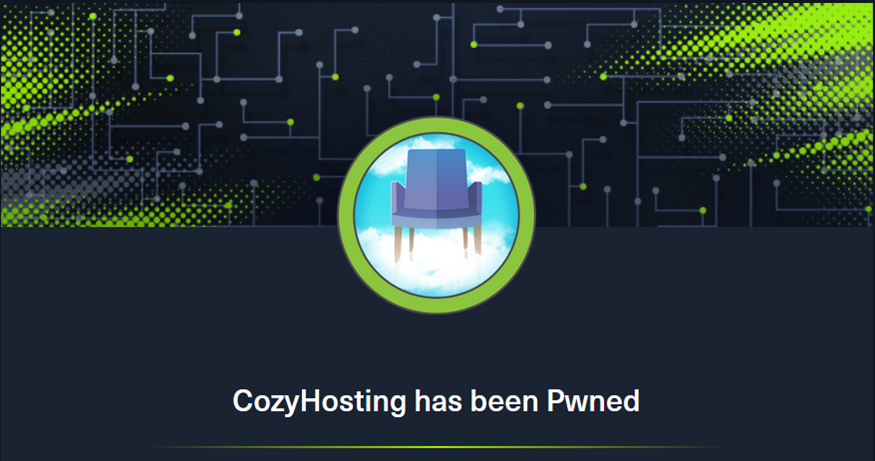
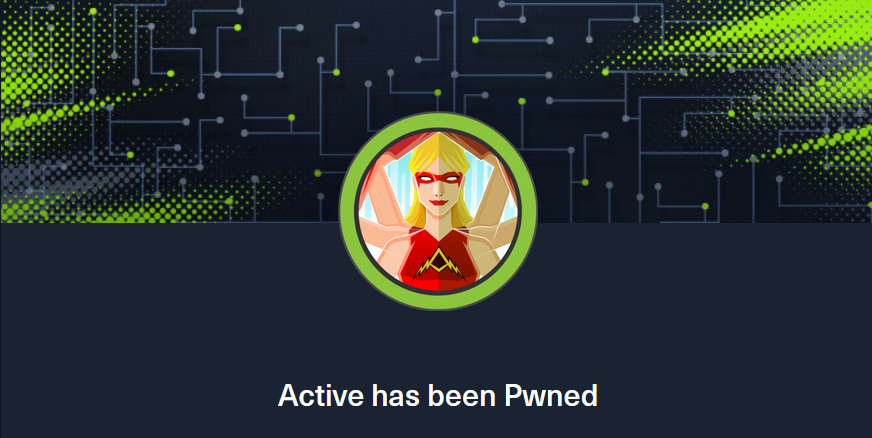
add write-up
- add HTB: Active write-up in dataset.json
- update recent blog in /index.html and update image

Changed region(s): [[0.0, 0.0, 1.0, 0.7123], [0.2167, 0.8311, 0.7741, 0.9795]]

diff --git a/index.html b/index.html
@@ -76,7 +76,7 @@
         <div class="content-division">
             <div class="sub-division">
                 <div class="sub-content">
-                    <a href="https://github.com/het-desai/hackthebox/blob/main/cozyhosting/write-up.md" target="_blank">
+                    <a href="https://github.com/het-desai/hackthebox/blob/main/active/write-up.md" target="_blank">
                         <img src="img/blog1.png" alt="Blog 1 Image">
                     </a>
                     <p>HTB: cozyhosting</p>
